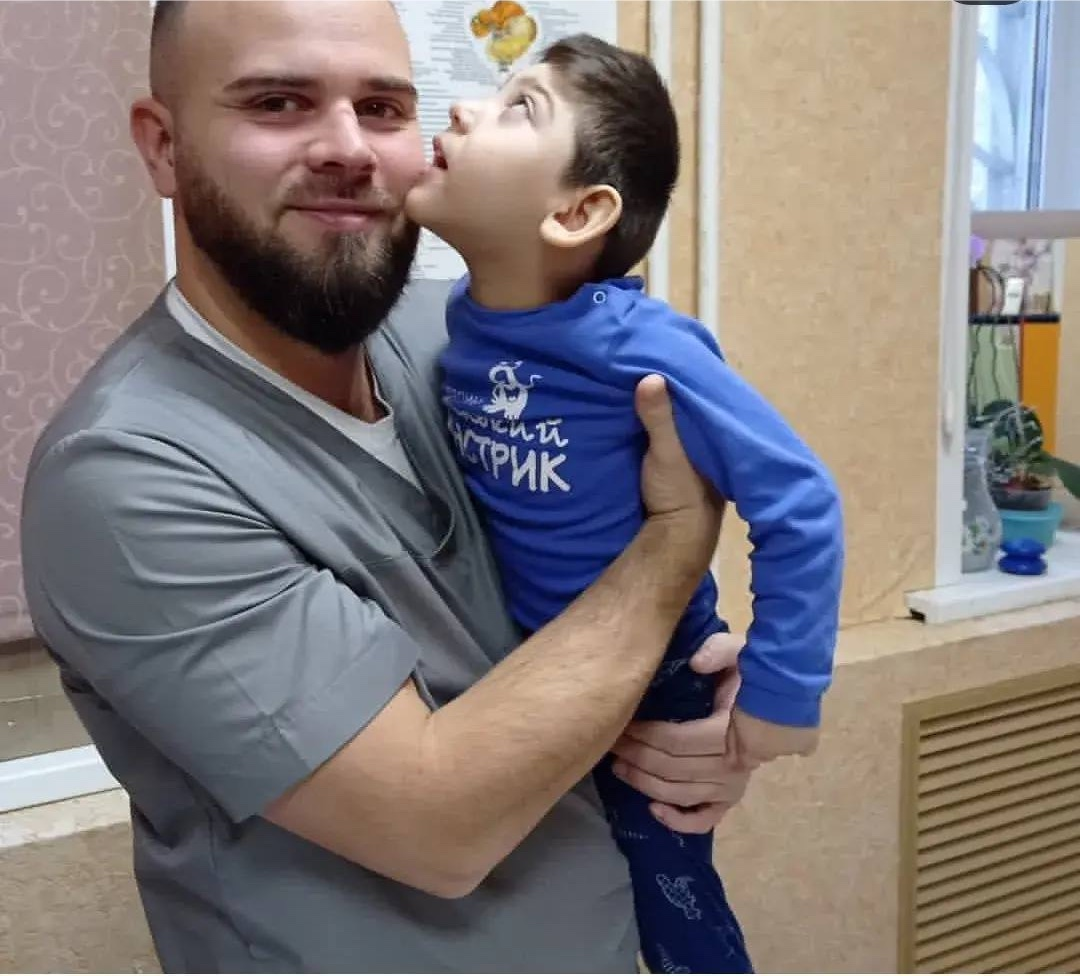
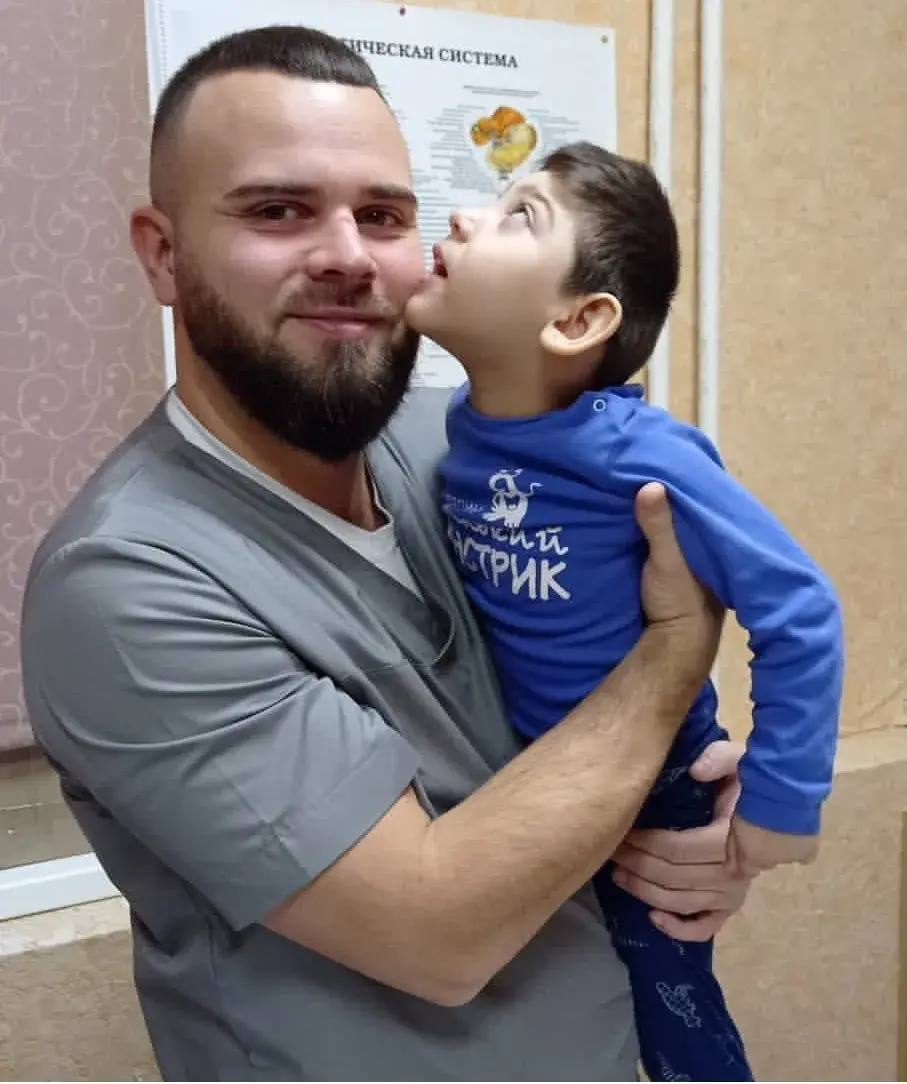
Neurogenesis «Семья» block: stop cutting Евгений's head
The Instagram «1/3» counter used to be removed by cropping the top 10%
of the photo, and the square frame then cut more from the top. Now the
counter is cropped off the right edge instead (full height kept) and
the photo shows in its own 907×1084 proportions, anchored to the top.
?v=2 on the URL so phones don't serve the old cached file.

diff --git a/biostimulyaciya-neirogeneza.html b/biostimulyaciya-neirogeneza.html
@@ -147,7 +147,7 @@
   /* ══ FAMILY ══ */
   .family { display: grid; grid-template-columns: minmax(0, 0.8fr) minmax(0, 1.2fr); gap: 40px; align-items: center; }
   @media (max-width: 860px) { .family { grid-template-columns: minmax(0, 1fr); } }
-  .family__photo { width: 100%; aspect-ratio: 1/1; object-fit: cover; object-position: center 25%; border-radius: var(--radius); box-shadow: var(--shadow-media); filter: var(--photo-filter); }
+  .family__photo { width: 100%; height: auto; aspect-ratio: 907/1084; object-fit: cover; object-position: center top; border-radius: var(--radius); box-shadow: var(--shadow-media); filter: var(--photo-filter); }
   @media (max-width: 860px) { .family__photo { max-width: 420px; margin: 0 auto; } }
   .family .sec__title { font-size: 32px; text-align: left; margin: 0 0 24px; }
   @media (max-width: 600px) { .family .sec__title { font-size: var(--f-h2); } }
@@ -532,7 +532,7 @@ src="https://www.facebook.com/tr?id=1591788022721183&ev=PageView&noscript=1"
 <!-- ══ 3. СЕМЬЯ ══ -->
 <section class="sec sec--dark2">
   <div class="wrap reveal family">
-    <img class="family__photo" src="photos/neurogenez/family.jpg" alt="Евгений Вишняков с ребёнком после сеанса" loading="lazy">
+    <img class="family__photo" src="photos/neurogenez/family.jpg?v=2" width="907" height="1084" alt="Евгений Вишняков с ребёнком после сеанса" loading="lazy">
     <div>
       <h2 class="sec__title">За каждым диагнозом стоит семья, которая не сдаётся</h2>
       <div class="card">
